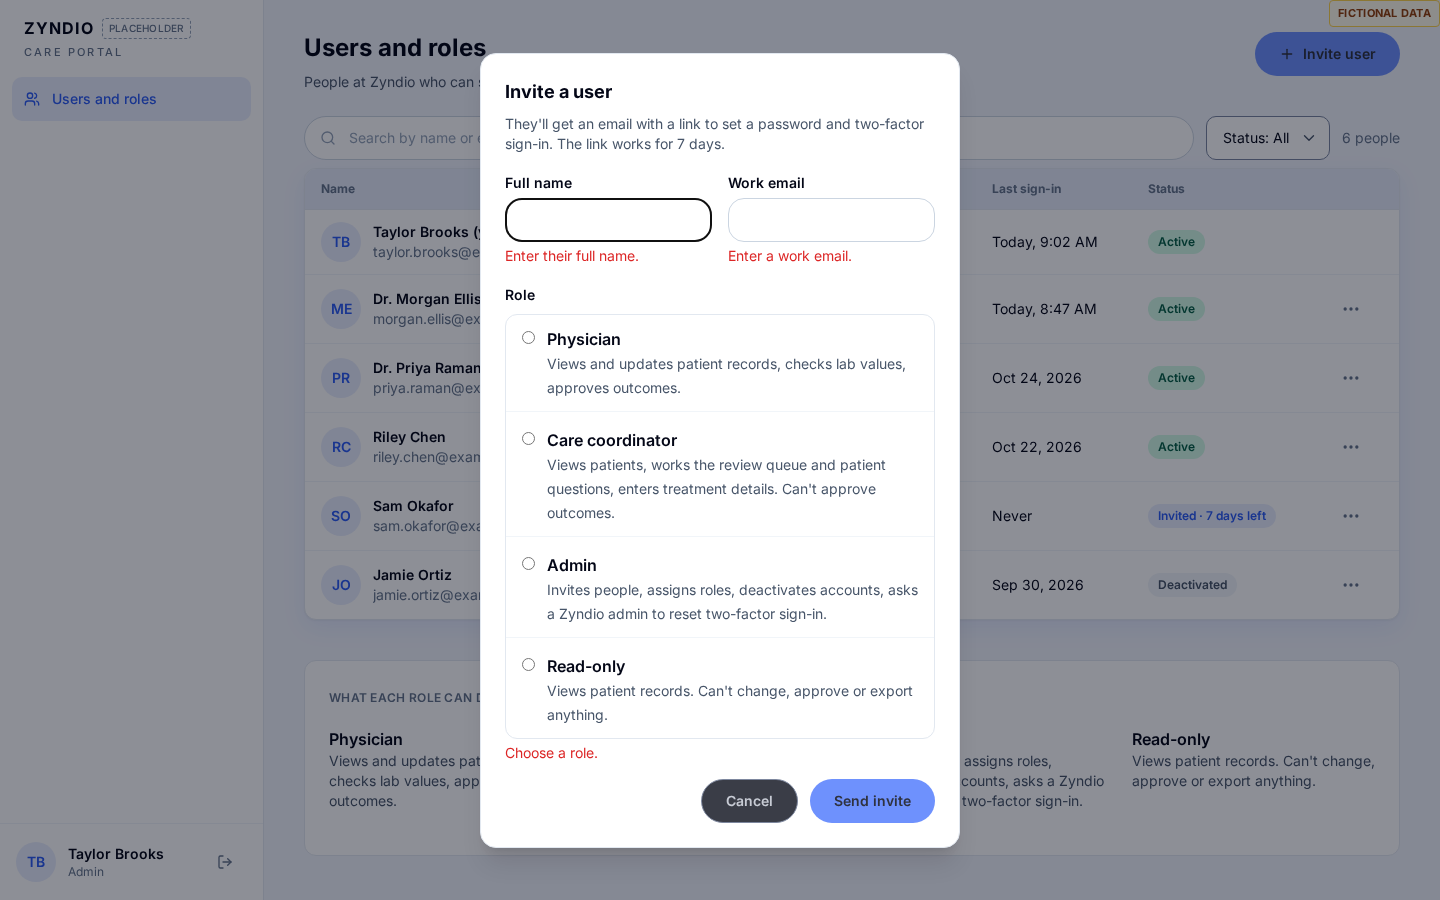
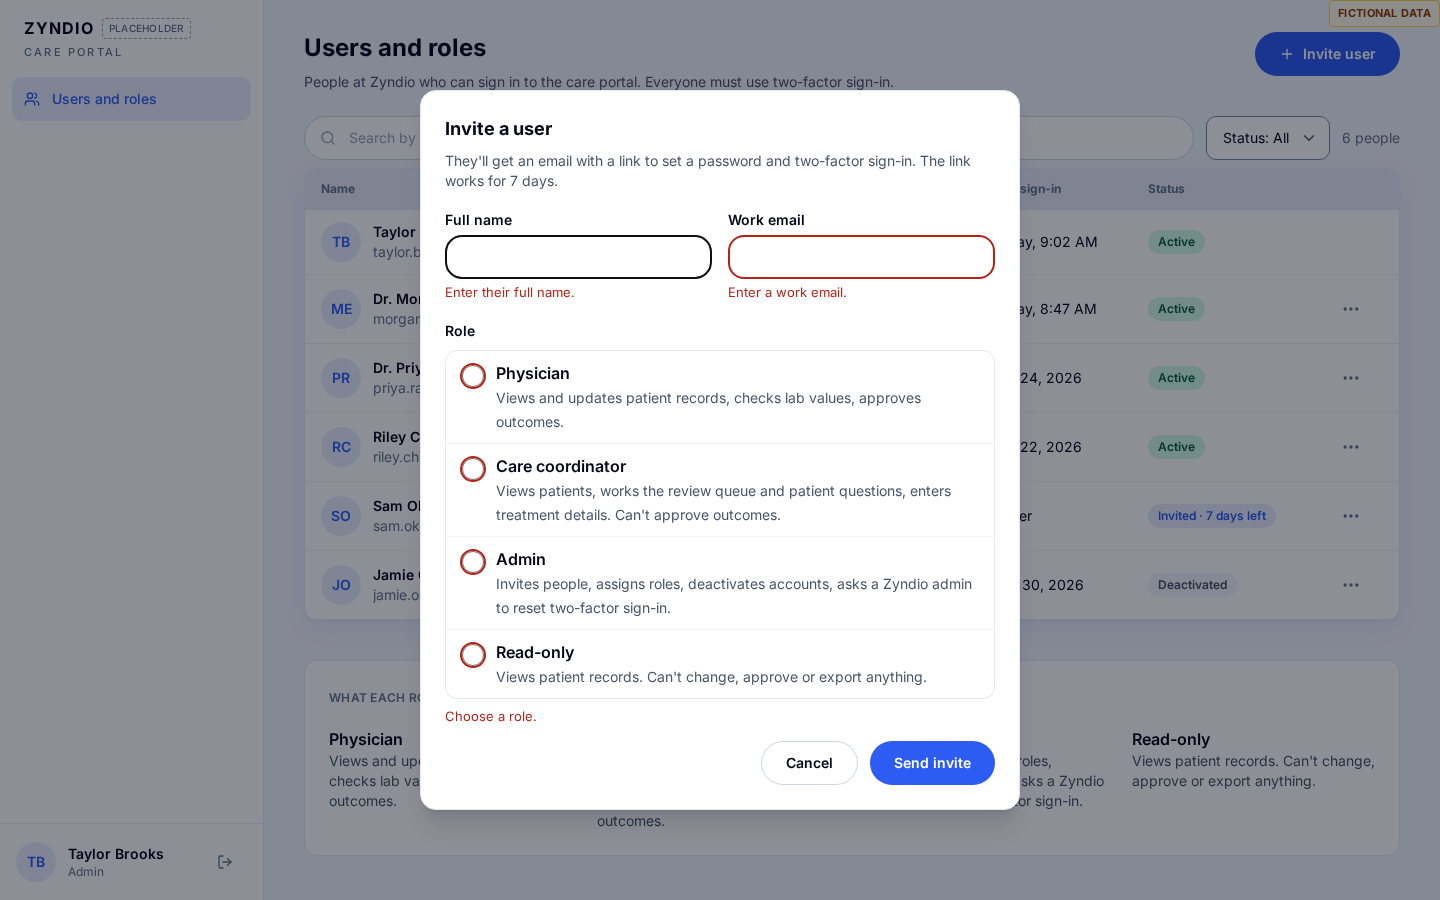
chore(tc-014): reshoot invite/cancel states + review pack
Solid destructive Cancel invite; invite 600px Role group with
validation rings; new sending/error/role-refused/cancel-error
light+dark captures. Compares and hashes under design reviews/.

Changed region(s): [[0.2812, 0.0311, 0.7188, 0.9644], [0.875, 0.0311, 0.9688, 0.0933], [0.5625, 0.3733, 0.5938, 0.4044]]

diff --git a/docs/screenshots/tc-005/INDEX.md b/docs/screenshots/tc-005/INDEX.md
@@ -3,6 +3,10 @@
 | Screen | State | Light | Dark |
 |---|---|---|---|
 | 07-users-roles | cancel-invite-confirm | [png](07-users-roles/cancel-invite-confirm--light.png) | [png](07-users-roles/cancel-invite-confirm--dark.png) |
+| 07-users-roles | cancel-invite-error | [png](07-users-roles/cancel-invite-error--light.png) | [png](07-users-roles/cancel-invite-error--dark.png) |
 | 07-users-roles | invite | [png](07-users-roles/invite--light.png) | [png](07-users-roles/invite--dark.png) |
+| 07-users-roles | invite-error | [png](07-users-roles/invite-error--light.png) | [png](07-users-roles/invite-error--dark.png) |
+| 07-users-roles | invite-role-refused | [png](07-users-roles/invite-role-refused--light.png) | [png](07-users-roles/invite-role-refused--dark.png) |
+| 07-users-roles | invite-sending | [png](07-users-roles/invite-sending--light.png) | [png](07-users-roles/invite-sending--dark.png) |
 | 07-users-roles | invite-sent | [png](07-users-roles/invite-sent--light.png) | [png](07-users-roles/invite-sent--dark.png) |
 | 07-users-roles | invite-validation | [png](07-users-roles/invite-validation--light.png) | [png](07-users-roles/invite-validation--dark.png) |
